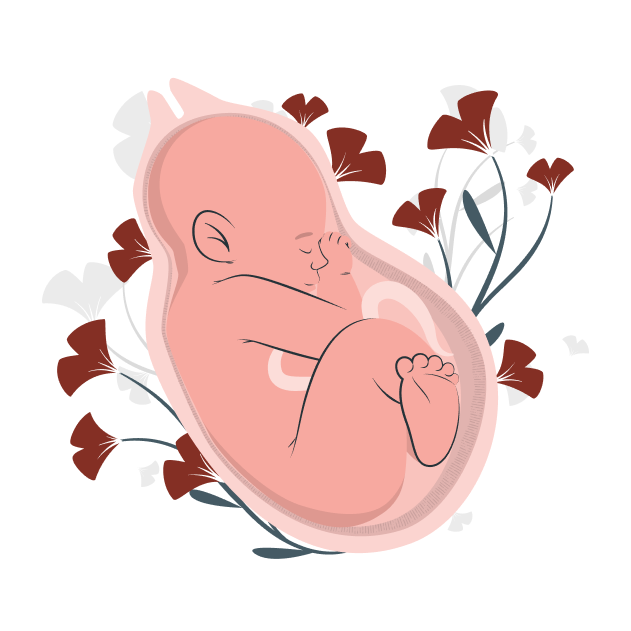
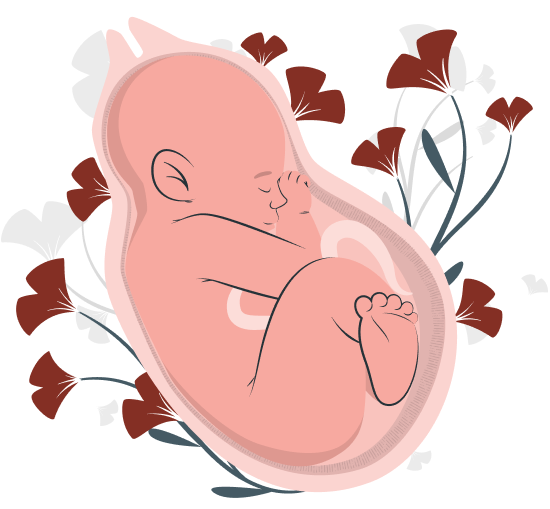
nova responsividade: tamanho de textos, navbar

diff --git a/responsividade.css b/responsividade.css
@@ -74,7 +74,7 @@
     z-index: 300;
     cursor: pointer;
     position: relative;
-    margin-left: 40px;
+    margin-left: 100px;
   }
 
   .menu-button:hover {
@@ -102,8 +102,8 @@
     background: #4d3333;
     padding: 35px;
     top: 145px;
-    right: 25px;
-    border-radius: 0 0 8px 8px;
+    left: 180px;
+    border-radius: 8px;
     box-shadow: 2px 2px 2px 0 rgba(0, 0, 0, 0.2);
     animation: slideDown 0.3s ease-out;
     text-align: start;
@@ -115,7 +115,7 @@
     content: "";
     position: absolute;
     top: -10px;
-    right: 50px;  /* Ajustado para alinhar a setinha com o botão */
+    right: 30px;  /* Ajustado para alinhar a setinha com o botão */
     width: 0;
     height: 0;
     border-left: 10px solid transparent;
@@ -156,6 +156,11 @@
     width: 150px;
     height: auto;
   }
+
+  main {
+    margin-top: -30px;
+    margin-bottom: -120px;
+  }
   
   /*===== HERO1 =====*/
 
@@ -164,18 +169,37 @@
     text-align: start;
   }
 
+  .hero1-texto h2 {
+    font-size: 1.7rem;
+  }
+  .hero1-texto h1 {
+    font-size: 1.5rem;
+    line-height: 2rem;
+  }
+  .hero1-texto p {
+    font-size: 0.9rem;
+  }
+  .hero1-texto p bold {
+    font-size: 0.9rem;
+  }
+  .hero1-texto button {
+    width: 160px;
+    font-size: 1rem;
+  }
+
   .hero1-img {
     position: relative;
     width: 100%;
     display: flex;
     justify-content: center;
     align-items: center;
+    margin-top: -120px;
+    margin-bottom: -120px;
   }
 
   .hero1-img img {
-    width: 400px;
+    width: 350px;
     height: auto;
-    margin: 0;
   }
 
   /*===== SOBRE =====*/
@@ -183,6 +207,18 @@
   .sobre {
     flex-direction: column;
     text-align: start;
+  }
+
+  .sobre-texto h2 {
+    font-size: 1.7rem;
+    margin-bottom: -10px;
+  }
+  .sobre-texto p {
+    font-size: 0.9rem;
+    margin-top: -20px;
+  }
+  .sobre-texto p bold {
+    font-size: 0.9rem;
   }
 
   .sobre-img {
@@ -201,9 +237,20 @@
   /*===== OBJETIVO =====*/
 
   .objetivo {
-    height: 95rem;
+    height: 78rem;
     flex-direction: column;
     text-align: start;
+  }
+
+  .objetivo-texto h1 {
+    font-size: 1.5rem;
+    line-height: 2rem;
+  }
+  .objetivo-texto p {
+    font-size: 0.9rem;
+  }
+  .objetivo-texto p bold {
+    font-size: 0.9rem;
   }
 
   .objetivo-conteudo {
@@ -253,7 +300,7 @@
   }
 
   .card-conteudo p {
-    margin: 0;
+    margin-top: -10px;
     font-size: 0.9rem;
   }
 
@@ -262,7 +309,21 @@
   .funcionalidades {
     flex-direction: column;
     text-align: start;
-    margin-top: 150px;
+    margin-top: 120px;
+  }
+
+  .funcionalidades-texto h1 {
+    font-size: 1.5rem;
+    line-height: 2rem;
+  }
+  #conteudo-predicao,
+  #conteudo-dashboard {
+    font-size: 1rem;
+    margin-top: -10px;
+  }
+  .funcionalidades-texto div span {
+    font-size: 0.9rem;
+    line-height: 1.5rem;
   }
 
   .funcionalidades img {
@@ -278,6 +339,7 @@
     padding: 16px;
     white-space: normal;
     gap: 16px;
+    margin-top: -10px;
   }
 
   .parceiros > div.parceiros-texto {
@@ -288,13 +350,14 @@
   }
 
   .parceiros > div.parceiros-texto h1 {
-    font-size: 1.8rem;
-    margin-bottom: 12px;
+    font-size: 1.5rem;
+    margin-bottom: 30px;
     white-space: normal;
+    line-height: 2rem;
   }
 
   .parceiros > div.parceiros-texto p {
-    font-size: 1rem;
+    font-size: 0.9rem;
     line-height: 1.5;
     word-wrap: break-word;
     white-space: normal;
@@ -307,6 +370,15 @@
   #image-list {
     white-space: nowrap;
     margin-top: 10px;
+    margin-bottom: 20px;
+  }
+
+  /* Ajustes responsivos do carrossel: diminuir gap e acelerar animação
+     para evitar sensação de lentidão e garantir que o loop mostre todas as imagens. */
+  #image-list {
+    gap: 40px; /* reduz o espaçamento entre logos em telas pequenas */
+    animation: slide 6s linear infinite; /* mais rápido no mobile */
+    width: max-content; /* garante que a animação translateX(-50%) funcione corretamente */
   }
 
   .parceiros_img img {
@@ -349,7 +421,7 @@
   }
 
   .footer-listas h3 {
-    font-size: 1.5rem;
+    font-size: 1rem;
     margin-bottom: 16px;
     text-align: start;
     width: 100%;
@@ -358,6 +430,7 @@
   .footer-colunas {
     align-items: start;
     text-align: start;
+    margin-bottom: 20px;
   }
 
   .footer-colunas ul {
@@ -369,6 +442,11 @@
 
   .footer-colunas ul li {
     margin: 0;
+  }
+
+  .footer-colunas.Mapa ul li a {
+    font-size: 0.9rem;
+    line-height: 1rem;
   }
 
   .footer-colunas.contatos ul li {

diff --git a/erro.css b/erro.css
@@ -187,7 +187,7 @@ nav ul li a:hover::after {
     z-index: 300;
     cursor: pointer;
     position: relative;
-    margin-left: 40px;
+    margin-left: 100px;
   }
 
   .menu-button:hover {
@@ -215,8 +215,8 @@ nav ul li a:hover::after {
     background: #4d3333;
     padding: 35px;
     top: 145px;
-    right: 25px;
-    border-radius: 0 0 8px 8px;
+    left: 180px;
+    border-radius: 8px;
     box-shadow: 2px 2px 2px 0 rgba(0, 0, 0, 0.2);
     animation: slideDown 0.3s ease-out;
     text-align: start;
@@ -228,7 +228,7 @@ nav ul li a:hover::after {
     content: "";
     position: absolute;
     top: -10px;
-    right: 50px;  /* Ajustado para alinhar a setinha com o botão */
+    right: 30px;  /* Ajustado para alinhar a setinha com o botão */
     width: 0;
     height: 0;
     border-left: 10px solid transparent;
@@ -314,7 +314,7 @@ nav ul li a:hover::after {
   }
 
   .footer-listas h3 {
-    font-size: 1.5rem;
+    font-size: 1rem;
     margin-bottom: 16px;
     text-align: start;
     width: 100%;
@@ -323,6 +323,7 @@ nav ul li a:hover::after {
   .footer-colunas {
     align-items: start;
     text-align: start;
+    margin-bottom: 20px;
   }
 
   .footer-colunas ul {
@@ -335,6 +336,12 @@ nav ul li a:hover::after {
   .footer-colunas ul li {
     margin: 0;
   }
+
+  .footer-colunas.Mapa ul li a {
+    font-size: 0.9rem;
+    line-height: 1rem;
+  }
+
 
   .footer-colunas.contatos ul li {
     display: flex;

diff --git a/index.html b/index.html
@@ -210,18 +210,11 @@
                             <li>
                                 <img src="img/instagram.svg" alt="">
                                 <a href="https://www.instagram.com/dot.sophia/" target="_blank">@dot.sophia</a>
-                            </li>
-                            <li>
-                                <img src="img/email.svg" alt="">
-                                <a 
-                                href="mailto:sophia@contato.com?subject=Contato%20pelo%20site%20da%20SophIA&body=Olá,%20eu%20gostaria%20de%20mais%20informações%20sobre%20o%20projeto.">
-                                    sophia@contato.com
-                                </a>
-                            </li>
+                            </li> 
                         </ul>
                     </div>
 
-                    <div class="footer-colunas">
+                    <div class="footer-colunas Mapa">
                     <h3>Mapa do Site</h3>
                         <ul>
                             <li><a href="#inicio">Início</a></li>
@@ -234,7 +227,7 @@
 
             </div>
             
-            <span>&copy; 2024 SophIA. Todos os direitos reservados.</span>
+            <span>&copy; 2025 SophIA. Todos os direitos reservados.</span>
         </div>
     </footer>
 

diff --git a/erro.html b/erro.html
@@ -47,17 +47,11 @@
                                 <img src="img/instagram.svg" alt="">
                                 <a href="https://www.instagram.com/dot.sophia/" target="_blank">@dot.sophia</a>
                             </li>
-                            <li>
-                                <img src="img/email.svg" alt="">
-                                <a 
-                                href="mailto:sophia@contato.com?subject=Contato%20pelo%20site%20da%20SophIA&body=Olá,%20eu%20gostaria%20de%20mais%20informações%20sobre%20o%20projeto.">
-                                    sophia@contato.com
-                                </a>
-                            </li>
+                            
                         </ul>
                     </div>
 
-                    <div class="footer-colunas">
+                    <div class="footer-colunas Mapa">
                     <h3>Mapa do Site</h3>
                         <ul>
                             <li><a href="#inicio">Início</a></li>
@@ -70,7 +64,7 @@
 
             </div>
             
-            <span>&copy; 2024 SophIA. Todos os direitos reservados.</span>
+            <span>&copy; 2025 SophIA. Todos os direitos reservados.</span>
         </div>
     </footer>
 

diff --git a/style.css b/style.css
@@ -266,7 +266,8 @@ nav ul li a:hover::after {
     width: 31px;
     height: 10px;
     background-color: #160B05;
-    top: -8px;
+    top: -15px;
+    border-radius: 4px;
     left: 0;
     transform: scaleX(0);
     transition: transform 0.3s ease-out;
@@ -334,20 +335,24 @@ nav ul li a:hover::after {
 }
 
 .parceiros_img {
-    width: 200px;
+    /* Ocupa toda a largura disponível para que o carrossel seja full-width */
+    width: 100%;
     height: auto;
-    margin: 90px 0 159px 0;
+    margin: 40px 0; /* espaçamento mais contido entre seções */
     gap: 34px;
+    overflow: hidden; /* garante que apenas a faixa visível apareça */
 }
 
 #image-list {
-  margin: 30px 0;
-  display: flex;
-  justify-content: center;
-  align-items: center;
-  gap: 100px;
-  width: max-content;
-  animation: slide 10s linear infinite;
+    margin: 30px 0;
+    display: flex;
+    /* alinhar os itens ao início para preencher a largura do container
+         e evitar espaços em branco laterais quando o container for centralizado */
+    justify-content: flex-start;
+    align-items: center;
+    gap: 100px;
+    width: max-content;
+    animation: slide 10s linear infinite;
 }
 
 #image-list {
